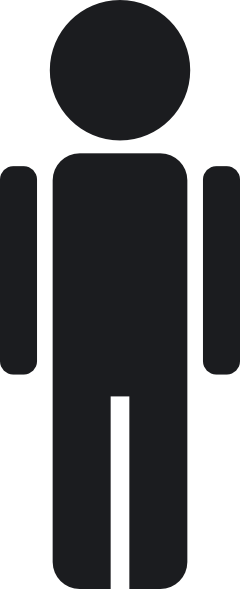
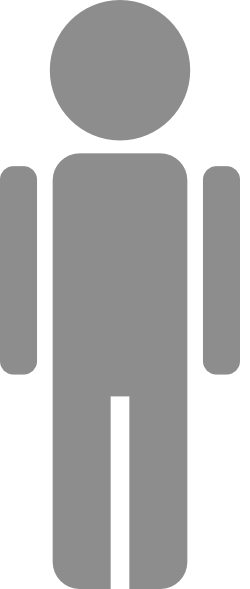
Final changes

diff --git a/qr.css b/qr.css
@@ -57,17 +57,21 @@ p.charging
 	background-size: 30px 100%;
 	border: none;
 	border-radius: 0;
-	height: 40px;
+	height: 50px !important;
 }
 
 .ui-slider-handle, .ui-state-hover, .ui-state-default
 {
-	background: url(human.png) !important;
-	background-size: 100% 100%;
-	height: 50px !important;
+	display: block;
+	background-color: green;
+	background: url(human-active.png) repeat-x !important;
+	background-attachment: fixed;
+	background-size: 40px 100% !important;
+	height: 60px !important;
 }
 
 #slider{
+	float: left;
 	width:20%;
 	margin-left: 40%
 }
@@ -80,4 +84,13 @@ p.charging
 #host-controls
 {
 	display: none;
+}
+
+#vendor
+{
+	float: left;
+	background-color: gray;
+	margin-left: 10px;
+	width: 30px;
+	height: 50px;
 }

diff --git a/qr.js b/qr.js
@@ -32,9 +32,11 @@ $(document).ready(function()
 			*/
 	});
 	$("#trade").click(function(){
+		$("#charging").html("The person in queue wants $2 to swap places with you.");
 		$(".payments").show();
 	});
 	$("#pay").click(function(){
+		$("#charging").html("The vendor is charging $10 for the service, you can pay any time.");
 		$(".payments").show();
 	});
 
@@ -74,6 +76,10 @@ function poll()
 			console.log(data.currentNumber);
 			console.log(data.lastPersonNumber);
 			*/
+			if(data.customerNumber == data.currentNumber && "vibrate" in navigator)
+			{
+				navigator.vibrate(1000);
+			}
 			$("#sliderContainer").show();
 			if(!userHasSlider)
 			{

diff --git a/index.php b/index.php
@@ -44,13 +44,14 @@ queue = "<? echo $queue; ?>";
 	<div id="host-controls"><button class="small" id="next">Next client</button></div>
 <? } else if($status == "polling") { ?>
 	<p id="info"></p>
-	<div id = 'sliderContainer'><span>You are here</span><div id = 'slider'></div></div>
+	<div id = 'sliderContainer'><span>You are here</span><div id = 'slider'></div><div id="vendor"></div></div>
+	<div style="clear:both;"></div>
 	<button id="trade" class="small">Trade places</button>
 	<button id="leave" class="small">Leave queue</button>
 	<button id="pay" class="small">Pay for service</button>
 
 	<div class="payments" id="service-payment">
-		<p class="charging">The vendor is charging $10 for the service, you can pay any time.</p>
+		<p id="charging">The vendor is charging $10 for the service, you can pay any time.</p>
 		<div class="braintree">
 		<form id="checkout" method="post" action="/checkout">
 		    <div id="dropin"></div>
